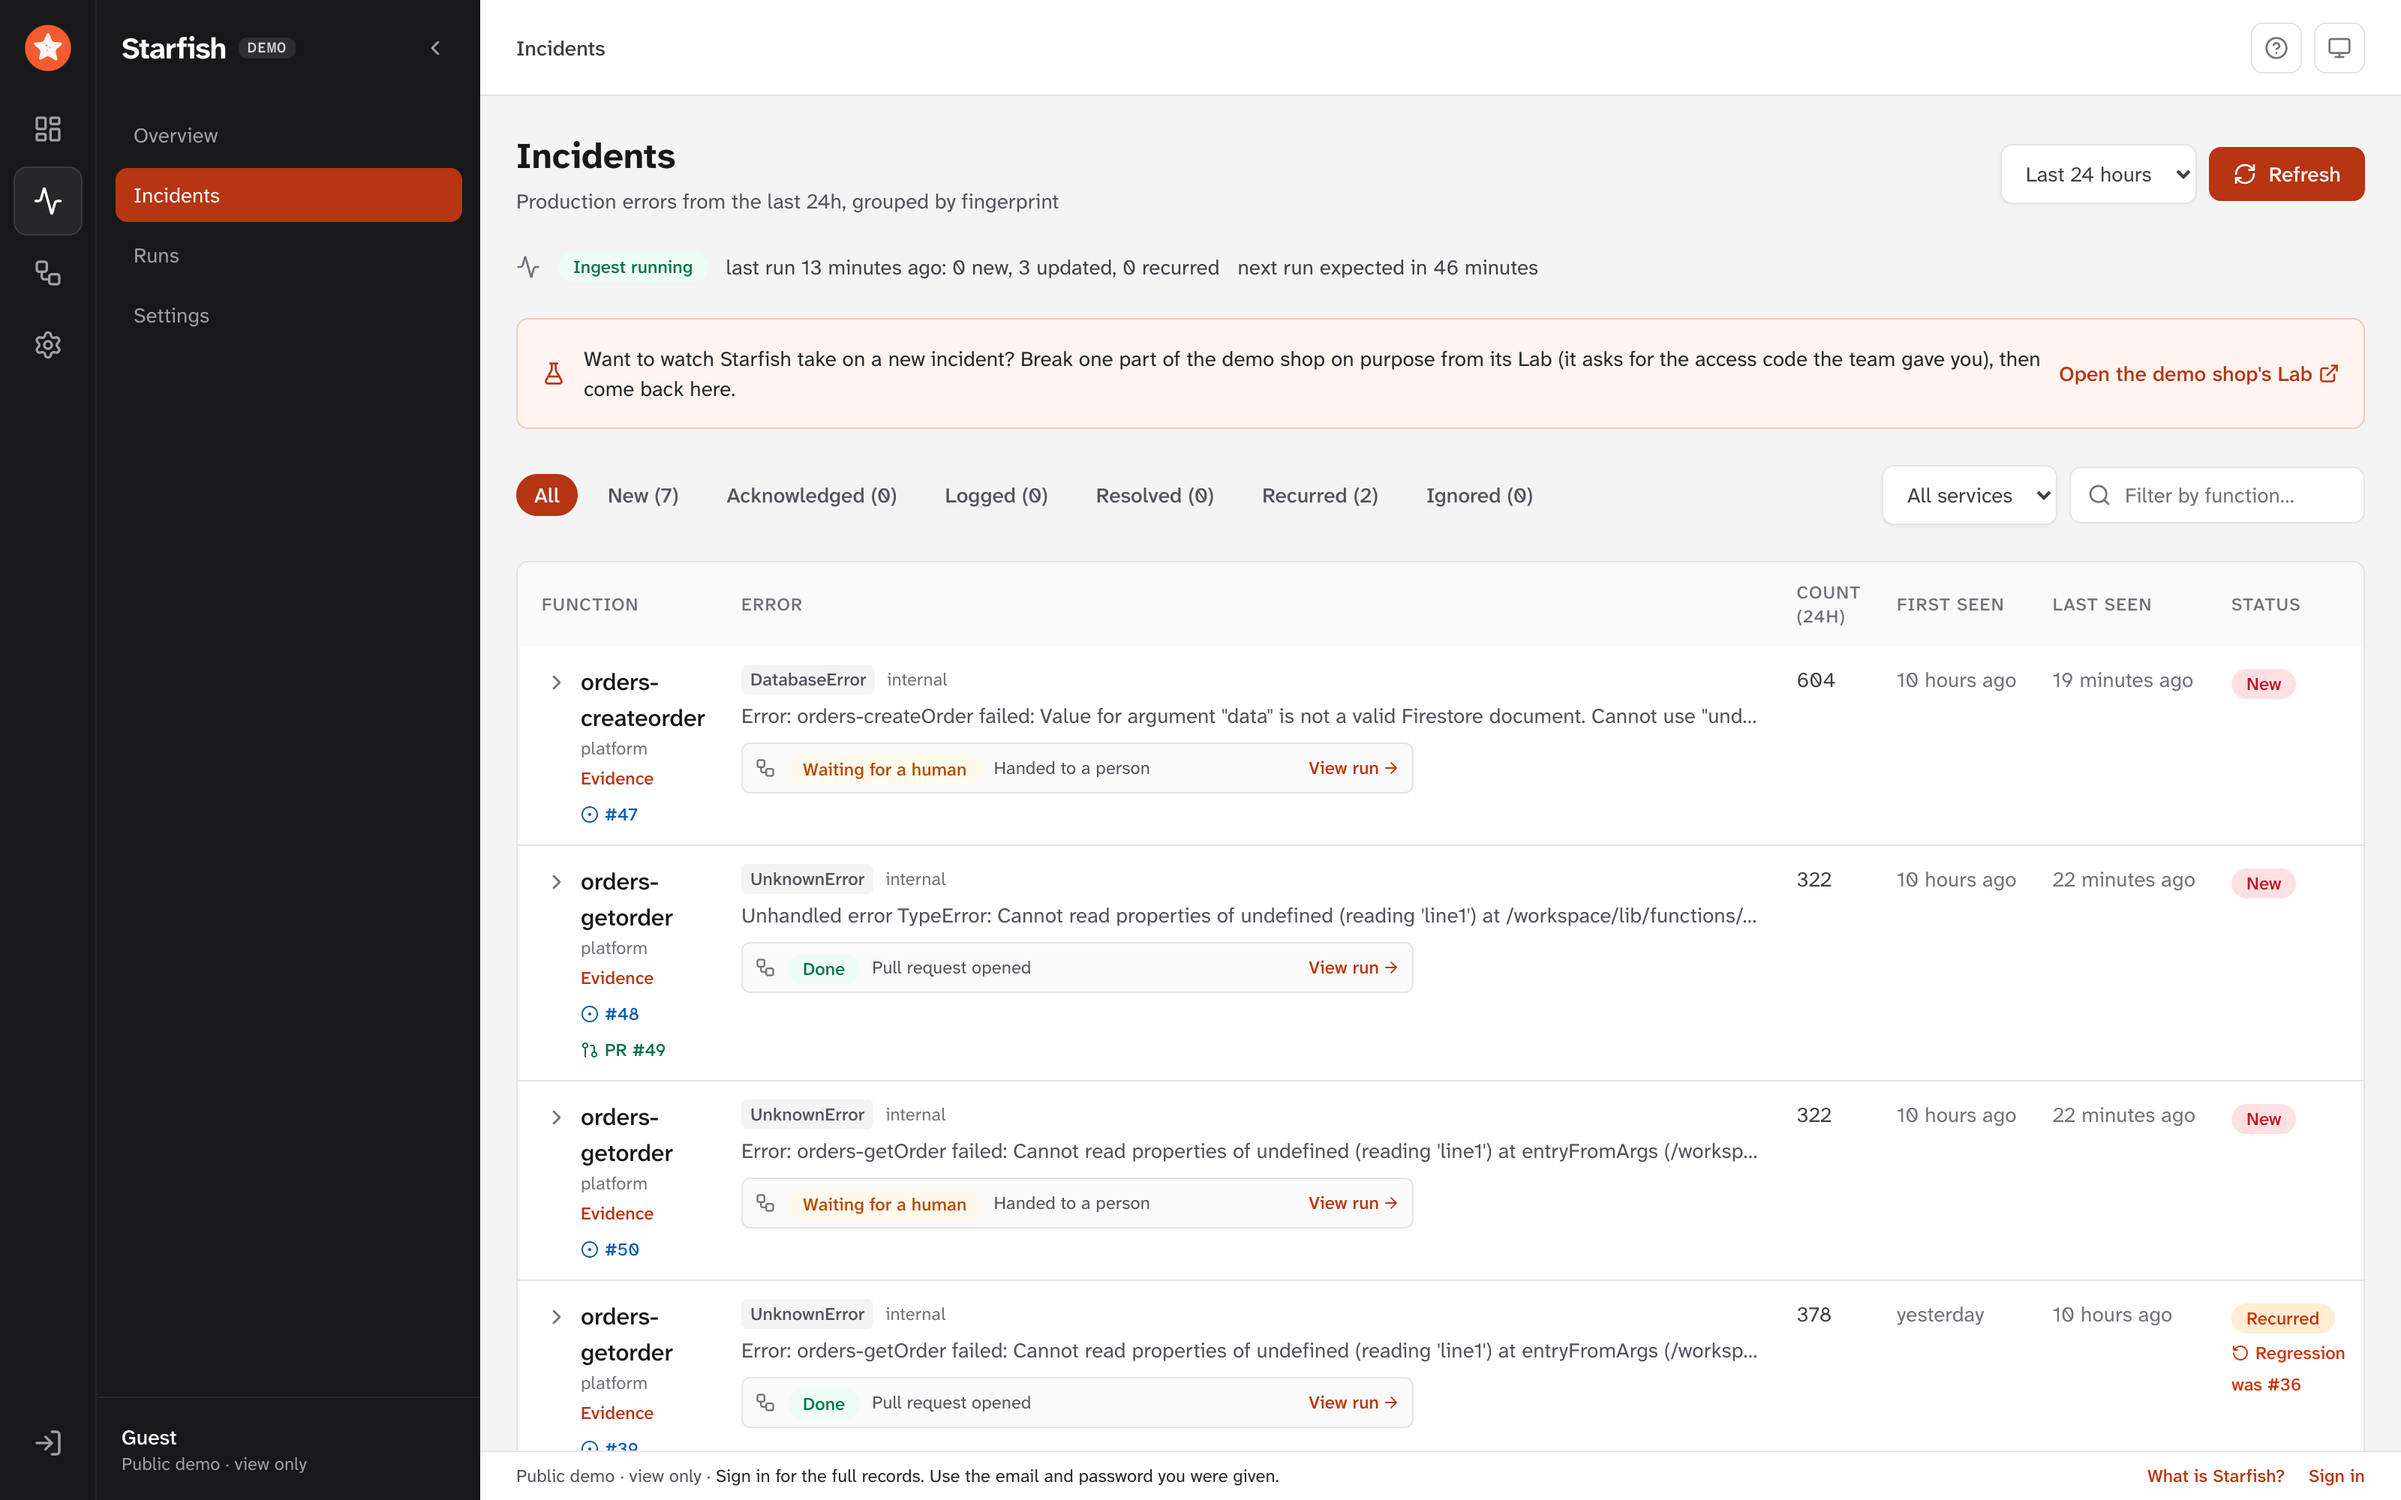
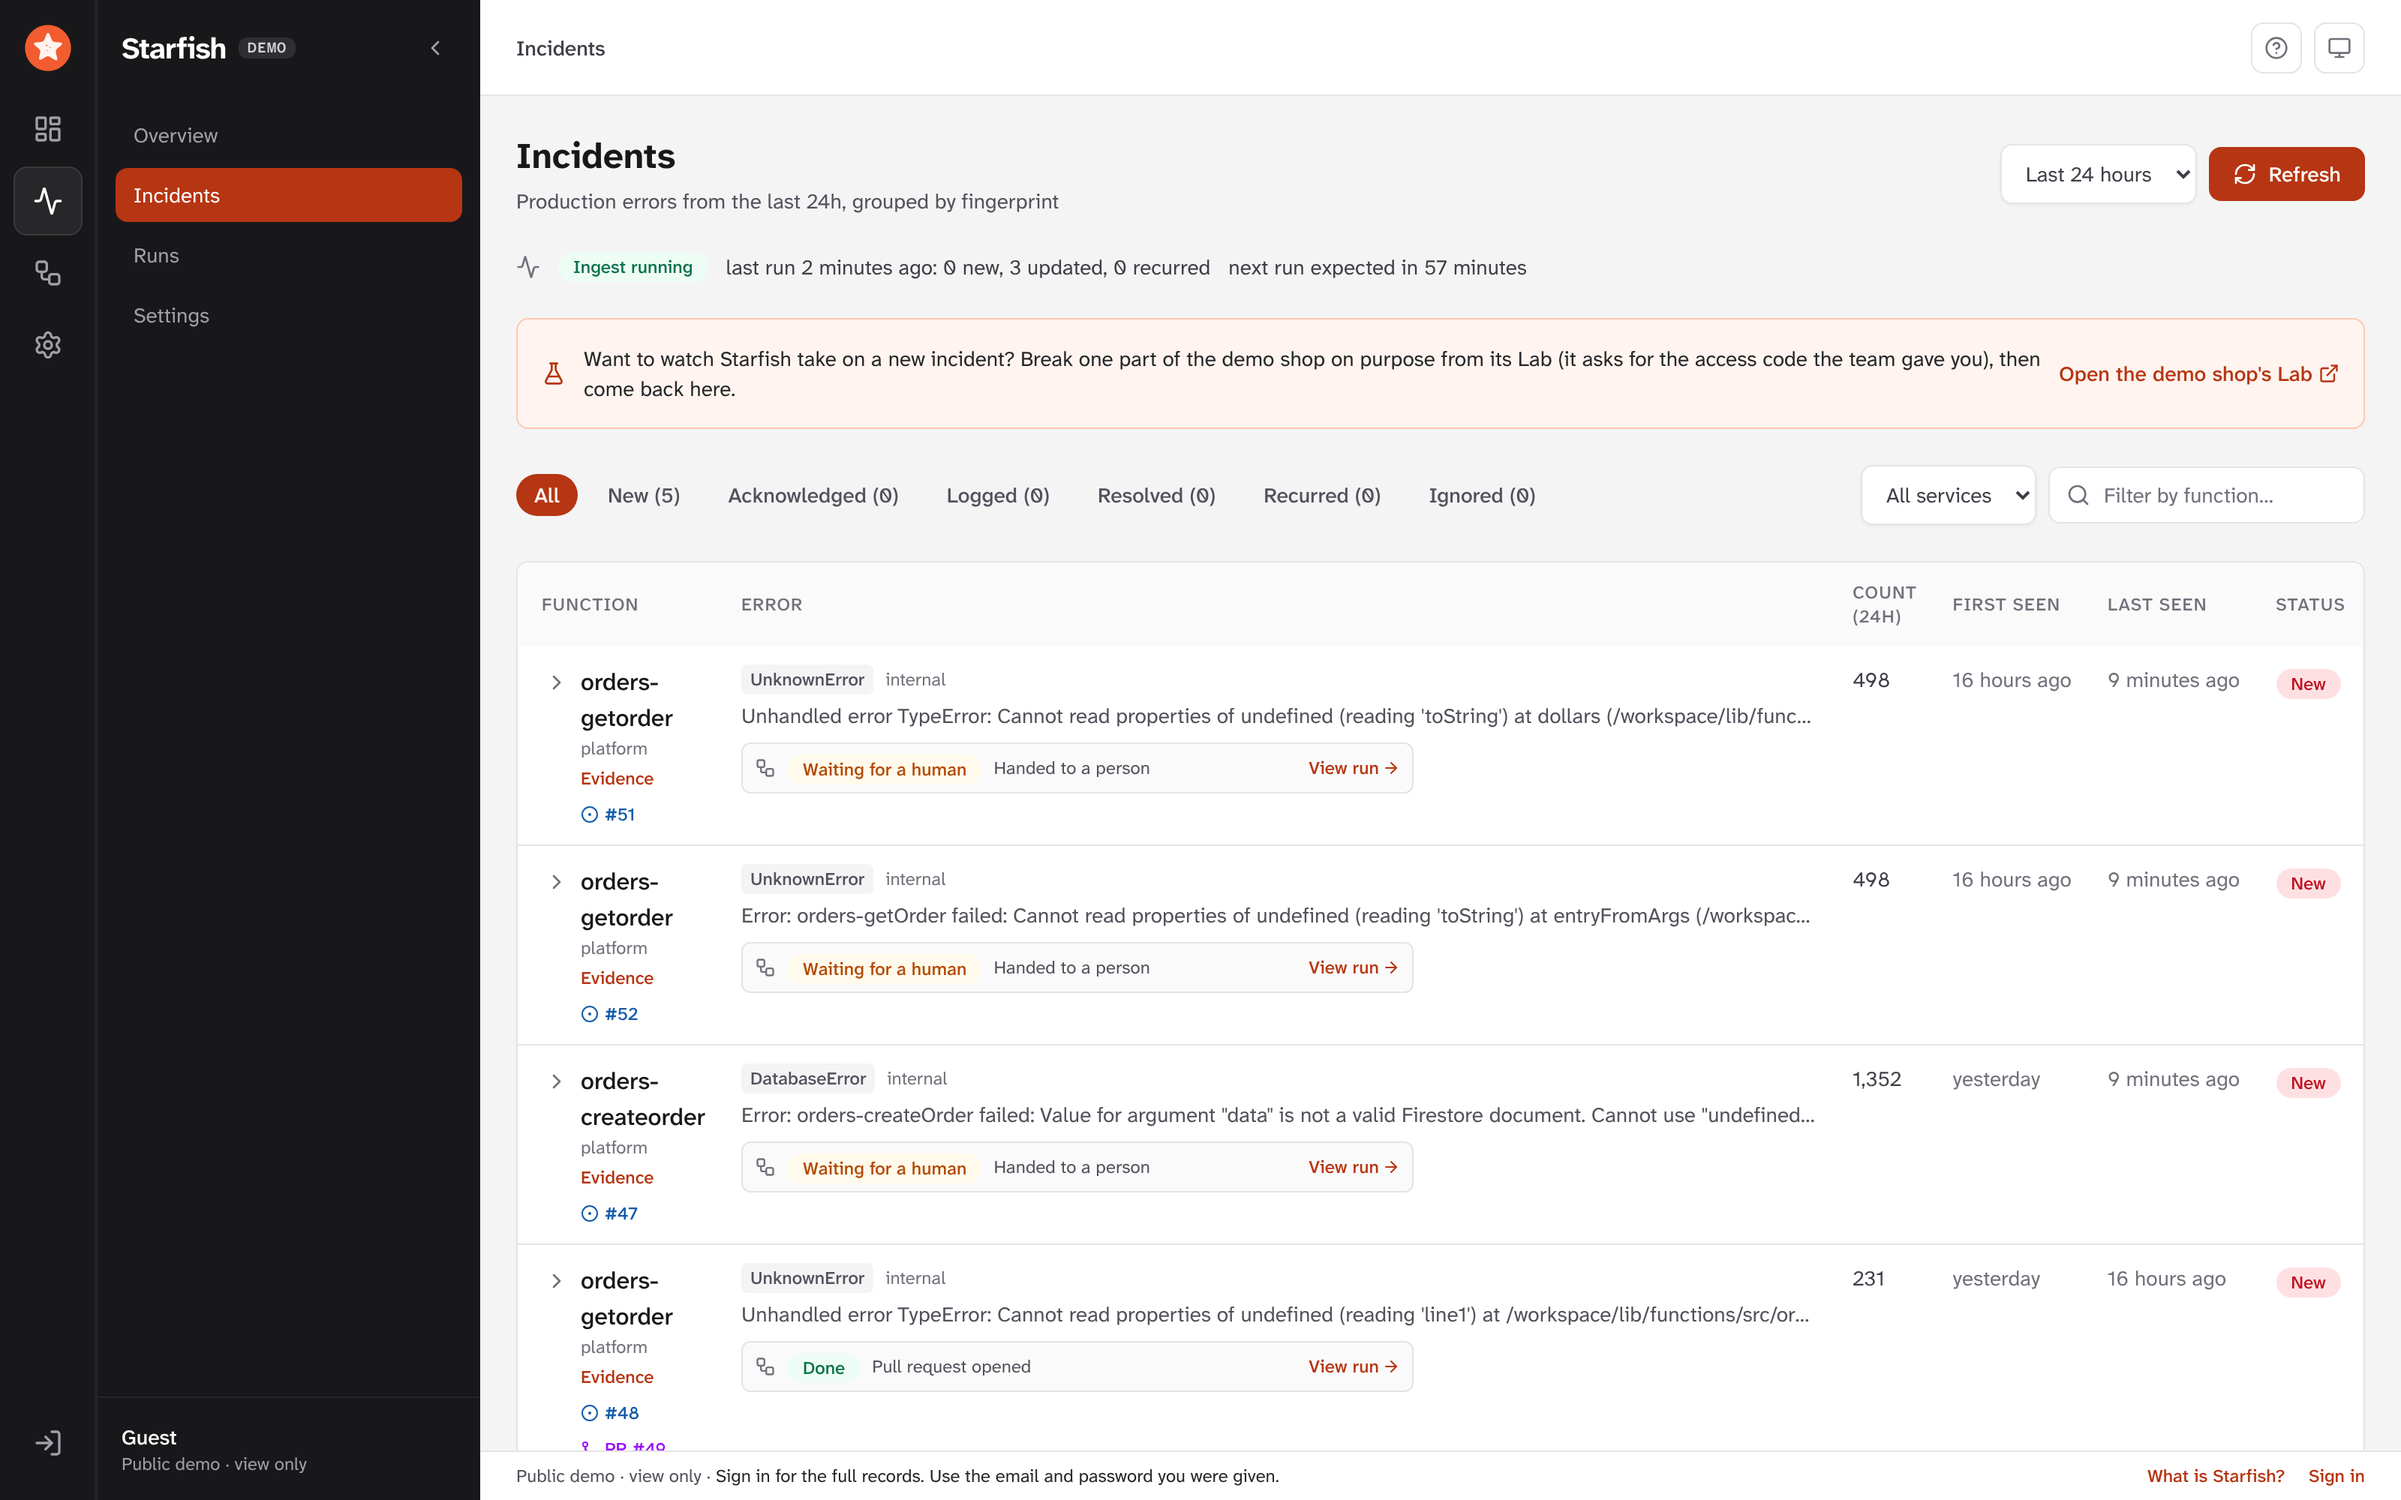
docs: refresh the README's captures of the public demo (#349)
Recapture Overview, Incidents and Runs (pull request opened) from the public demo's guest view on
2026-10-14, at the same 1600x1000 viewport and 2x scale as before, so the README shows the UI as it is
deployed now (19 waiting runs, 26 in all, the newest incidents with issues #51 and #52). The Runs
capture is still the run to issue #48 and PR #49, so its caption holds.

Claude-Session: https://claude.ai/code/session_01Qn1cDe2V4ckzozBjfqNEp9

diff --git a/README.md b/README.md
@@ -282,7 +282,7 @@ The Incidents page opens with a line saying whether the engine is running (from 
 
 The public demo needs no sign-in: a visitor is signed in anonymously and sees the Overview, the incidents and their evidence, the Runs page and a view-only Settings page, all for the `demo` environment only, with no triage buttons (#12). A guest never reads the stored incident, cycle or event documents: `firestore.rules` serve a guest only **trimmed copies** the engine writes for the `demo` environment (#18, see [Redaction limits](#redaction-limits) below), so the guest pages show no error detail, stack trace or model reasoning. That needs Anonymous sign-in enabled in the Firebase project and only `demo`-labelled data. App Check is built as an option, off unless the UI is built with a reCAPTCHA site key (`VITE_STARFISH_APPCHECK_SITE_KEY`), and enforcing it on Firestore is a console step left to a person; an optional uptime check and alert on the site come with `UPTIME_CHECK=1 scripts/deploy-web.sh`. Both are tested only with stubs and dry runs, never on a real project ([deploy.md](docs/deploy.md#app-check-and-the-uptime-check-12)). Until the agent has carried real incidents through every stage, the demo can also carry a **synthetic** evidence history: `pnpm seed-demo` (see [Synthetic demo history](#synthetic-demo-history)), every record of which the UI badges "Synthetic". A private deployment leaves Anonymous sign-in disabled and still requires an operator account.
 
-**What it looks like.** These are captures of the public demo's guest view, taken on 2026-10-13 (the guest view shows trimmed
+**What it looks like.** These are captures of the public demo's guest view, taken on 2026-10-14 (the guest view shows trimmed
 copies of the records, so error detail and the model's own words are left out):
 
 ![Runs: the newest run to a pull request, with its issue and PR, and the counts of every run](docs/screenshots/runs-pull-request.png)
